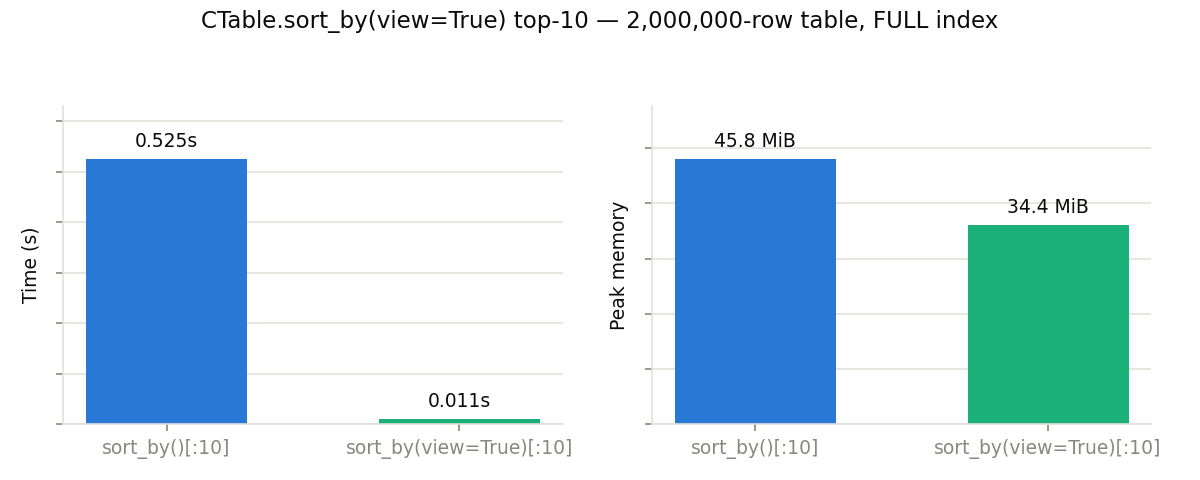
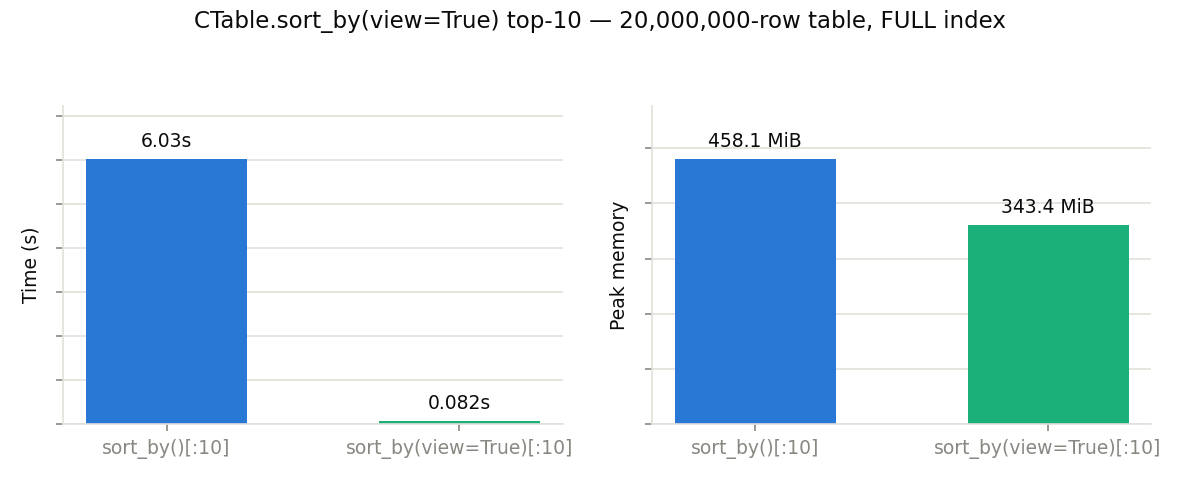
Add iter_sorted shortcut for FULL-indexed NDArrays
- indexing.py: add _shortcut_ordered_indices + _read_sidecar_range so
     iter_sorted/argsort with a FULL index read sidecar slices directly
     instead of building the full permutation (O(k) instead of O(N))
   - Add optimization tip for NDArray.iter_sorted(start=-k) with benchmark
     (20M-element array: ~52× faster, ~193× less memory than argsort)

diff --git a/src/blosc2/indexing.py b/src/blosc2/indexing.py
@@ -7514,6 +7514,69 @@ def _ordered_positions_from_exact_positions(
     return selected_positions
 
 
+def _shortcut_ordered_indices(
+    array: blosc2.NDArray,
+    descriptor: dict,
+    total_rows: int,
+    start: int | None,
+    stop: int | None,
+    step: int | None,
+    order_fields: list[str | None],
+) -> np.ndarray | None:
+    """Fast path: read head or tail of a FULL index directly.
+
+    Returns positions array, or ``None`` if the shortcut does not apply
+    (multi-field order, expression index, strided or mid-array slice).
+    """
+    if len(order_fields) > 1:
+        return None  # secondary refinement needed, fall back
+    full = descriptor.get("full")
+    if full is None:
+        return None
+
+    step = 1 if step is None else step
+    if abs(step) != 1:
+        return None  # strided slice, fall back
+
+    # Use Python range slicing (O(1) len + indexing) to determine the exact
+    # set of indices the slice covers, without materializing them.
+    actual = range(total_rows)[start:stop:step]
+    k = len(actual)
+    if k == 0:
+        return np.empty(0, dtype=np.int64)
+    first = actual[0]
+    last = actual[-1]
+
+    if step > 0:
+        sidecar_start, sidecar_stop = first, last + 1
+    else:
+        sidecar_start, sidecar_stop = last, first + 1
+
+    return _read_sidecar_range(array, descriptor, sidecar_start, sidecar_stop, step)
+
+
+def _read_sidecar_range(
+    array: blosc2.NDArray, descriptor: dict, sidecar_start: int, sidecar_stop: int, step: int
+) -> np.ndarray:
+    """Read positions [*sidecar_start*:*sidecar_stop*] from the FULL index."""
+    full = descriptor["full"]
+    streams = [_load_full_sidecar_handles(array, descriptor)]
+    for run in full.get("runs", ()):
+        streams.append(_load_full_run_sidecar_handles(array, descriptor, run))
+
+    if len(streams) != 1:
+        # Multi-run index (after append + rebuild): not worth the complexity.
+        # Fall back to the normal path, which is correct just slower.
+        return None
+
+    # Single run: any contiguous slice is a direct read.
+    _, pos_handle = streams[0]
+    chunk = pos_handle[sidecar_start:sidecar_stop][:]
+    if step < 0:
+        chunk = chunk[::-1].copy()
+    return np.asarray(chunk, dtype=np.int64)
+
+
 def ordered_indices(
     array: blosc2.NDArray,
     order: str | list[str] | None = None,
@@ -7530,8 +7593,14 @@ def ordered_indices(
         return None
     order_fields = ordered_plan.order_fields
     descriptor = ordered_plan.descriptor
+    total_rows = int(array.shape[0])
+
+    shortcut = _shortcut_ordered_indices(array, descriptor, total_rows, start, stop, step, order_fields)
+    if shortcut is not None:
+        return shortcut
+
     positions = _ordered_positions_from_exact_positions(
-        array, descriptor, np.arange(int(array.shape[0]), dtype=np.int64), order_fields
+        array, descriptor, np.arange(total_rows, dtype=np.int64), order_fields
     )
     return _positions_in_input_order(positions, start, stop, step)
 

diff --git a/bench/optim_tips/tip_03b_ndarray_iter_sorted.py b/bench/optim_tips/tip_03b_ndarray_iter_sorted.py
@@ -1,0 +1,64 @@
+#######################################################################
+# Copyright (c) 2019-present, Blosc Development Team <[email redacted]>
+# All rights reserved.
+#
+# SPDX-License-Identifier: BSD-3-Clause
+#######################################################################
+
+# Tip 3b: NDArray.iter_sorted() streams top-k values straight from a FULL
+# index instead of materializing the full permutation.  argsort() reads the
+# entire sorted order (all N positions); iter_sorted(start=-k) reads just
+# the tail of the index sidecar.
+
+from pathlib import Path
+
+import blosc2
+import numpy as np
+from common import fmt_bytes, measure, save_plot
+
+N = 20_000_000
+URLPATH = str(Path(__file__).parent / "tip_03b.b2nd")
+TOPK = 10
+
+# Module-level: create the persistent array with a FULL index once.
+p = Path(URLPATH)
+if not p.exists():
+    p.unlink(missing_ok=True)
+    rng = np.random.default_rng(42)
+    data = 15.0 + rng.random(N, dtype=np.float64) * 25
+    arr = blosc2.asarray(data, urlpath=URLPATH, mode="w")
+    arr.create_index(kind=blosc2.IndexKind.FULL)
+    del arr, data
+
+
+def naive():
+    # argsort materialises the full permutation even
+    # though we only keep the top 10 positions.
+    arr = blosc2.open(URLPATH)
+    return arr[arr.argsort()[-TOPK:]]
+
+
+def tip():
+    # iter_sorted reads just the last 10 entries from the index sidecar.
+    arr = blosc2.open(URLPATH)
+    return list(arr.iter_sorted(start=-TOPK))
+
+
+if __name__ == "__main__":
+    naive_t, naive_m = measure(__file__, "naive")
+    tip_t, tip_m = measure(__file__, "tip")
+
+    print(f"naive  arr.argsort()[-10:]           : {naive_t:.3f}s  peak {fmt_bytes(naive_m)}")
+    print(f"tip    arr.iter_sorted(start=-10)    : {tip_t:.3f}s  peak {fmt_bytes(tip_m)}")
+    print(f"speedup: {naive_t / tip_t:.1f}x   memory: {naive_m / tip_m:.1f}x less")
+
+    save_plot(
+        "tip_03b_ndarray_iter_sorted.png",
+        f"NDArray.iter_sorted(start=-10) top-10 — {N:,}-element 1-D array, FULL index",
+        "arr.argsort()[-10:]",
+        "arr.iter_sorted(start=-10)",
+        naive_t,
+        tip_t,
+        naive_m,
+        tip_m,
+    )

diff --git a/bench/optim_tips/tip_03_sort_by_view.py b/bench/optim_tips/tip_03_sort_by_view.py
@@ -15,7 +15,7 @@ from pathlib import Path
 import blosc2
 from common import fmt_bytes, make_table, measure, save_plot
 
-N = 2_000_000
+N = 20_000_000
 URLPATH = str(Path(__file__).parent / "tip_03.b2d")
 TOPK = 10
 

diff --git a/doc/guides/optimization_tips.md b/doc/guides/optimization_tips.md
@@ -72,9 +72,19 @@ On a 16000×2000 float64 array, 400 chunk-sized reads aligned with the chunk gri
 
 *Benchmark for this tip: [`tip_02_chunk_aligned_slicing.py`](https://github.com/Blosc/python-blosc2/blob/main/bench/optim_tips/tip_02_chunk_aligned_slicing.py)*
 
-## Sorted top-k via `sort_by(view=True)`
+## Sorted top-k: stream from FULL indexes
 
-`CTable.sort_by(view=True)` returns a lightweight sorted *view* that gathers rows from the parent table on demand, instead of materializing a whole sorted copy. On a column with a `FULL` index it streams straight from the index, so the table is never actually sorted at all.
+A `FULL` index stores rows in sorted order. When all you need is the top (or
+bottom) *k* rows, you can stream just that slice directly from the index
+sidecar instead of materialising the full sorted permutation. Both
+:class:`~blosc2.CTable` and :class:`~blosc2.NDArray` expose this.
+
+### CTable: ``sort_by(view=True)``
+
+:meth:`CTable.sort_by(view=True) <blosc2.CTable.sort_by>` returns a
+lightweight sorted *view* that gathers rows from the parent table on demand.
+On a FULL-indexed column it streams straight from the index — the table is
+never actually sorted at all:
 
 ```python
 t.create_index("temperature", kind=blosc2.IndexKind.FULL)
@@ -88,11 +98,48 @@ top10 = t.sort_by("temperature", view=True)[:10]
 
 ![CTable.sort_by(view=True) top-10](optim_tips/tip_03_sort_by_view.png)
 
-On a 2M-row table, the view form took **~45x less time** — while also using about 25% less peak memory. The larger the table relative to *k*, the bigger this gap gets, since the naive path's cost is dominated by sorting rows you're about to discard.
+On a 20M-row table, the view form took **~74× less time** and about 25% less
+peak memory than a full ``sort_by()``.  The larger the table relative to
+*k*, the bigger the gap, since the naive path's cost is dominated by sorting
+rows you're about to discard.
 
-Views are also available for `group_by()` and `where()` queries, so use them whenever you don't need a materialized copy.
+*Benchmark: [`tip_03_sort_by_view.py`](https://github.com/Blosc/python-blosc2/blob/main/bench/optim_tips/tip_03_sort_by_view.py)*
 
-*Benchmark for this tip: [`tip_03_sort_by_view.py`](https://github.com/Blosc/python-blosc2/blob/main/bench/optim_tips/tip_03_sort_by_view.py)*
+### NDArray: ``iter_sorted(start=-k)``
+
+For 1-D :class:`~blosc2.NDArray` objects, :meth:`NDArray.iter_sorted(start=-k)
+<blosc2.NDArray.iter_sorted>` reads just the tail of the index sidecar,
+avoiding the full permutation that :func:`argsort() <blosc2.argsort>`
+would materialise:
+
+```python
+arr.create_index(kind=blosc2.IndexKind.FULL)
+
+# Avoid: materialises all 20M positions just to keep 10
+top10 = arr[arr.argsort()[-10:]]
+
+# Prefer: reads only the last 10 entries from the sidecar
+from blosc2 import asarray
+
+top10 = asarray(list(arr.iter_sorted(start=-10)))
+```
+
+Descending and bottom-k work via ``step=-1``:
+
+```python
+list(arr.iter_sorted(start=-1, stop=-11, step=-1))  # top-10 descending
+list(arr.iter_sorted(stop=10))  # bottom-10 ascending
+list(arr.iter_sorted(start=9, stop=None, step=-1))  # bottom-10 descending
+```
+
+![NDArray.iter_sorted(start=-10) top-10](optim_tips/tip_03b_ndarray_iter_sorted.png)
+
+On a 20M-element float64 array, ``iter_sorted(start=-10)`` was **~52× faster**
+and used **~193× less peak memory** than ``argsort()[-10:]`` — the latter
+still materialises the full 20M-element positions array even when backed by a
+FULL index.
+
+*Benchmark: [`tip_03b_ndarray_iter_sorted.py`](https://github.com/Blosc/python-blosc2/blob/main/bench/optim_tips/tip_03b_ndarray_iter_sorted.py)*
 
 ## Let SUMMARY indexes answer `min()`/`max()` directly
 